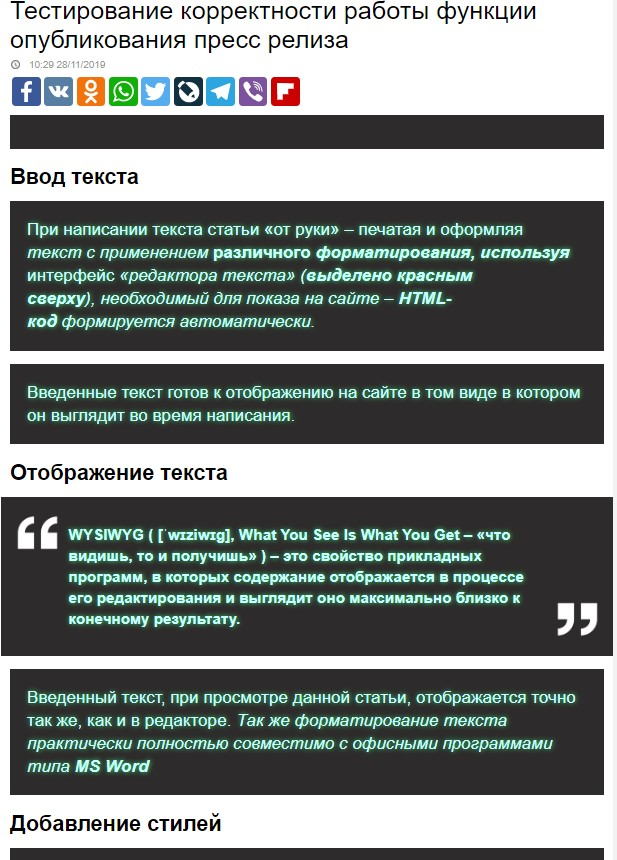
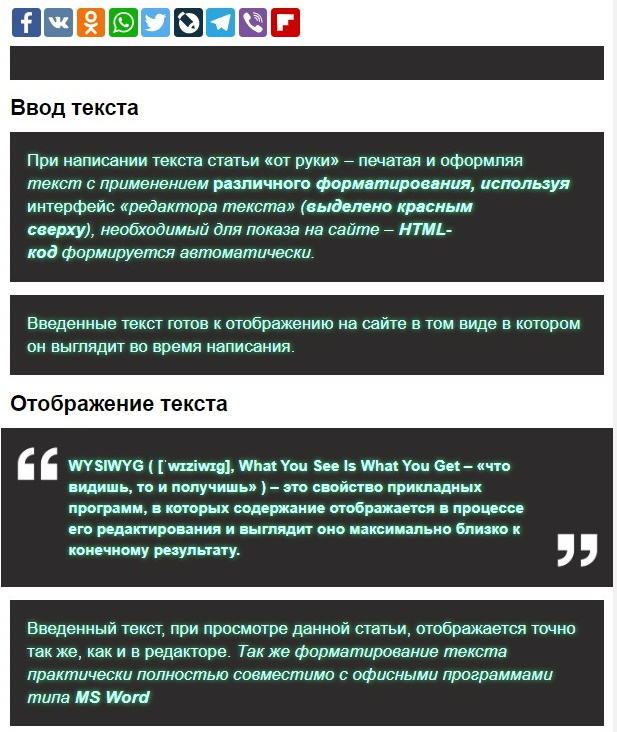
up docs

diff --git a/userdocs/site_admin/content/create_form.rst b/userdocs/site_admin/content/create_form.rst
@@ -2,6 +2,14 @@
 Общий интерфейс оформления контента
 ********************************************
 
+.. raw:: html
+
+    <style media="screen">
+        .figure img, img {
+          box-shadow: #C3BBBB 1px 1px 3px 0.5px;
+        }
+    </style>
+
 Описание особенностей работы с полями оформления текста публикуемого контента. Описанные руководства (как и поля) является общими для создания и редактирования публикаций во всех разделах категории "Контент":
 
  * Новости
@@ -19,11 +27,16 @@
 .. image:: /images/admin/edit_form/field_text.jpg
    :width: 125 %
 
+----
+
+Использование форматирования
+---------------------------------
+
+
 .. figure:: /images/text-field-write0.jpg
    :width: 125 %
 
 ..  :scale: 110 %
-
 
 .. code-block:: html
 
@@ -49,38 +62,15 @@
    <em>Так же форматирование&nbsp;текста практически полностью совместимо с офисными программами типа
    </em>  <b><em>MS Word</em></b></p>
 
-Результат:
 
 .. image:: /images/text-field-result.jpg
-   :width: 125 %
 
-Использование форматирования
----------------------------------
-
+----
 
 Копирование/Вставка форматированного текста
 ----------------------------------------------
 
-.. sidebar:: Sidebar Title
-
-   .. code-block:: html
-
-     <p style="padding: 1em; color: rgb(200,255,255); ... "></p>
-
-   .. code-block:: html
-
-     {<style>@media(max-width:500px){
-      #some_id{
-        width:100%;max-width:none;margin-left:0;
-      }</style>}
-
-   .. code-block:: html
-
-      ...
-      <p id="some_id"></p>
-      <div id="some_id">
-      ...
-
+----
 
 Использование CSS-стилей
 ---------------------------------
@@ -88,22 +78,74 @@
 .. image:: /images/text-field-style0.jpg
    :width: 125 %
 
+
+.. image:: /images/html-style.jpg
+   :width: 105 %
+
+.. code-block:: html
+
+   {<p style="margin-left:0cm; margin-right:0cm">параграф со стилем в скобках.</p>} 
+
+При переходе на следующий абзац (клавишей enter), стиль предыдущего параграфа p style=... остается на месте и не применяется к следующим параграфам в случае, если он взят в скобки «{...}»
+
+
+.. image:: /images/text-field-p-style.jpg
+   :width: 105 %
+
+.. image:: /images/text-field-p-style1.jpg
+   :width: 105 %
+
+.. image:: /images/text-field-p-style2.jpg
+   :width: 105 %
+
+
+
+
 .. code-block:: html
 
    <p style="padding: 1em;font-size: 19px;text-shadow: 0.5px 0.5px 5.5px #3de881;
    background-color: #2d2b2b; color: rgb(200,255,255)">
    Добавление CSS стилей в текст позволяет использовать расширенное форматирование текста</p>
 
+.. code-block:: html
+
+   <p style="padding: 1em; color: rgb(200,255,255); ... "></p>
+
+.. code-block:: html
+
+   { <style>@media(max-width:500px){ #some_id{
+      width:100%;max-width:none;margin-left:0;
+   }</style> }
+
+.. code-block:: html
+
+   ...
+   <p id="some_id"></p>
+   <div id="some_id">
+   ...
 
 .. code-block:: html
 
    {<style>p {padding: 1em;font-size: 19px;text-shadow: 0.5px 0.5px 5.5px #3de881;background-color: #2d2b2b; color: rgb(200,255,255)}<style>}
 
 .. image:: /images/text-field-style-result0.jpg
-   :width: 125 %
+   :width: 80 %
 
 Копирование/Вставка текста с CSS-стилями
 -------------------------------------------
+
+абзац скопирован из режима "Источник" одного документа в режим "Источник" другого документа,
+его <p style="margin-left:0cm; margin-right:0cm">&nbsp;</p> сохраняется и в обычном режиме редактирования текста, наследуется в следующие абзацы.
+
+.. image:: /images/text-field-p-style1-1.jpg
+   :width: 105 %
+
+.. image:: /images/text-field-p-style2-1.jpg
+   :width: 105 %
+
+.. image:: /images/text-field-p-style2-2.jpg
+   :width: 105 %
+
 
 .. parsed-literal::
 
@@ -113,27 +155,22 @@
    opacity:0.7;}.mm_test_header{text-align:center;font-weight:500;font-size:16px;padding:8px;font-weight:700;}.mm_test_title{padding:8px;font-size:16px;font-weight:700;text-align:center;text-decoration:none;}.mm_test_titleh4{color:#333;font-size:18px;font-weight:700;margin-bottom:20px}.mm_test_titlep{color:#333;margin-bottom:0}</style><div id="test_inner_banner" data-mir-incut-id="836"><div class="mm_test_header">Каким автомобилям нужна антикоррозийная обработка</div><div class="mm_test_content"><a href="https://mir24.tv/articles/16385735/antikorroziinaya-obrabotka-avtomobilya-nuzhna-li-ona-i-pochemu"><img src="https://mir24.tv/uploaded/images/crops/2019/November/a3ccfa9b12c9e8d0dee5eb6194c7a8e5dbf4d19d9f8f2403719899bbab92de9b-320x_.jpg?token=92872a4a4928ba9acb1f0273f542813d"></a><div class="mm_test_title"><a href="https://mir24.tv/articles/16385735/antikorroziinaya-obrabotka-avtomobilya-nuzhna-li-ona-i-pochemu">И сколько это стоит</a></div></div></div>}
 
 
-Использование HTML-разметки
----------------------------------
 .. attention::
 
 	.. parsed-literal::
 
 		{&lt;style&gt;@media(max-width:500px){#test_inner_bannera{color:#014e7d;}}&lt;/style&gt;}
 
+
+
+
+
 ..
   .. image:: /images/admin/edit_form/news_fields1.jpg
      :width: 100 %
-
   .. image:: /images/admin/edit_form/news_fields2.jpg
      :width: 100 %
-
   .. image:: /images/admin/edit_form/news_fields3.jpg
      :width: 100 %
-
   .. image:: /images/admin/edit_form/news_fields4.jpg
      :width: 100 %
-
-  .. |${n}| raw:: html
-
-      <u class="nf">BB</u>
